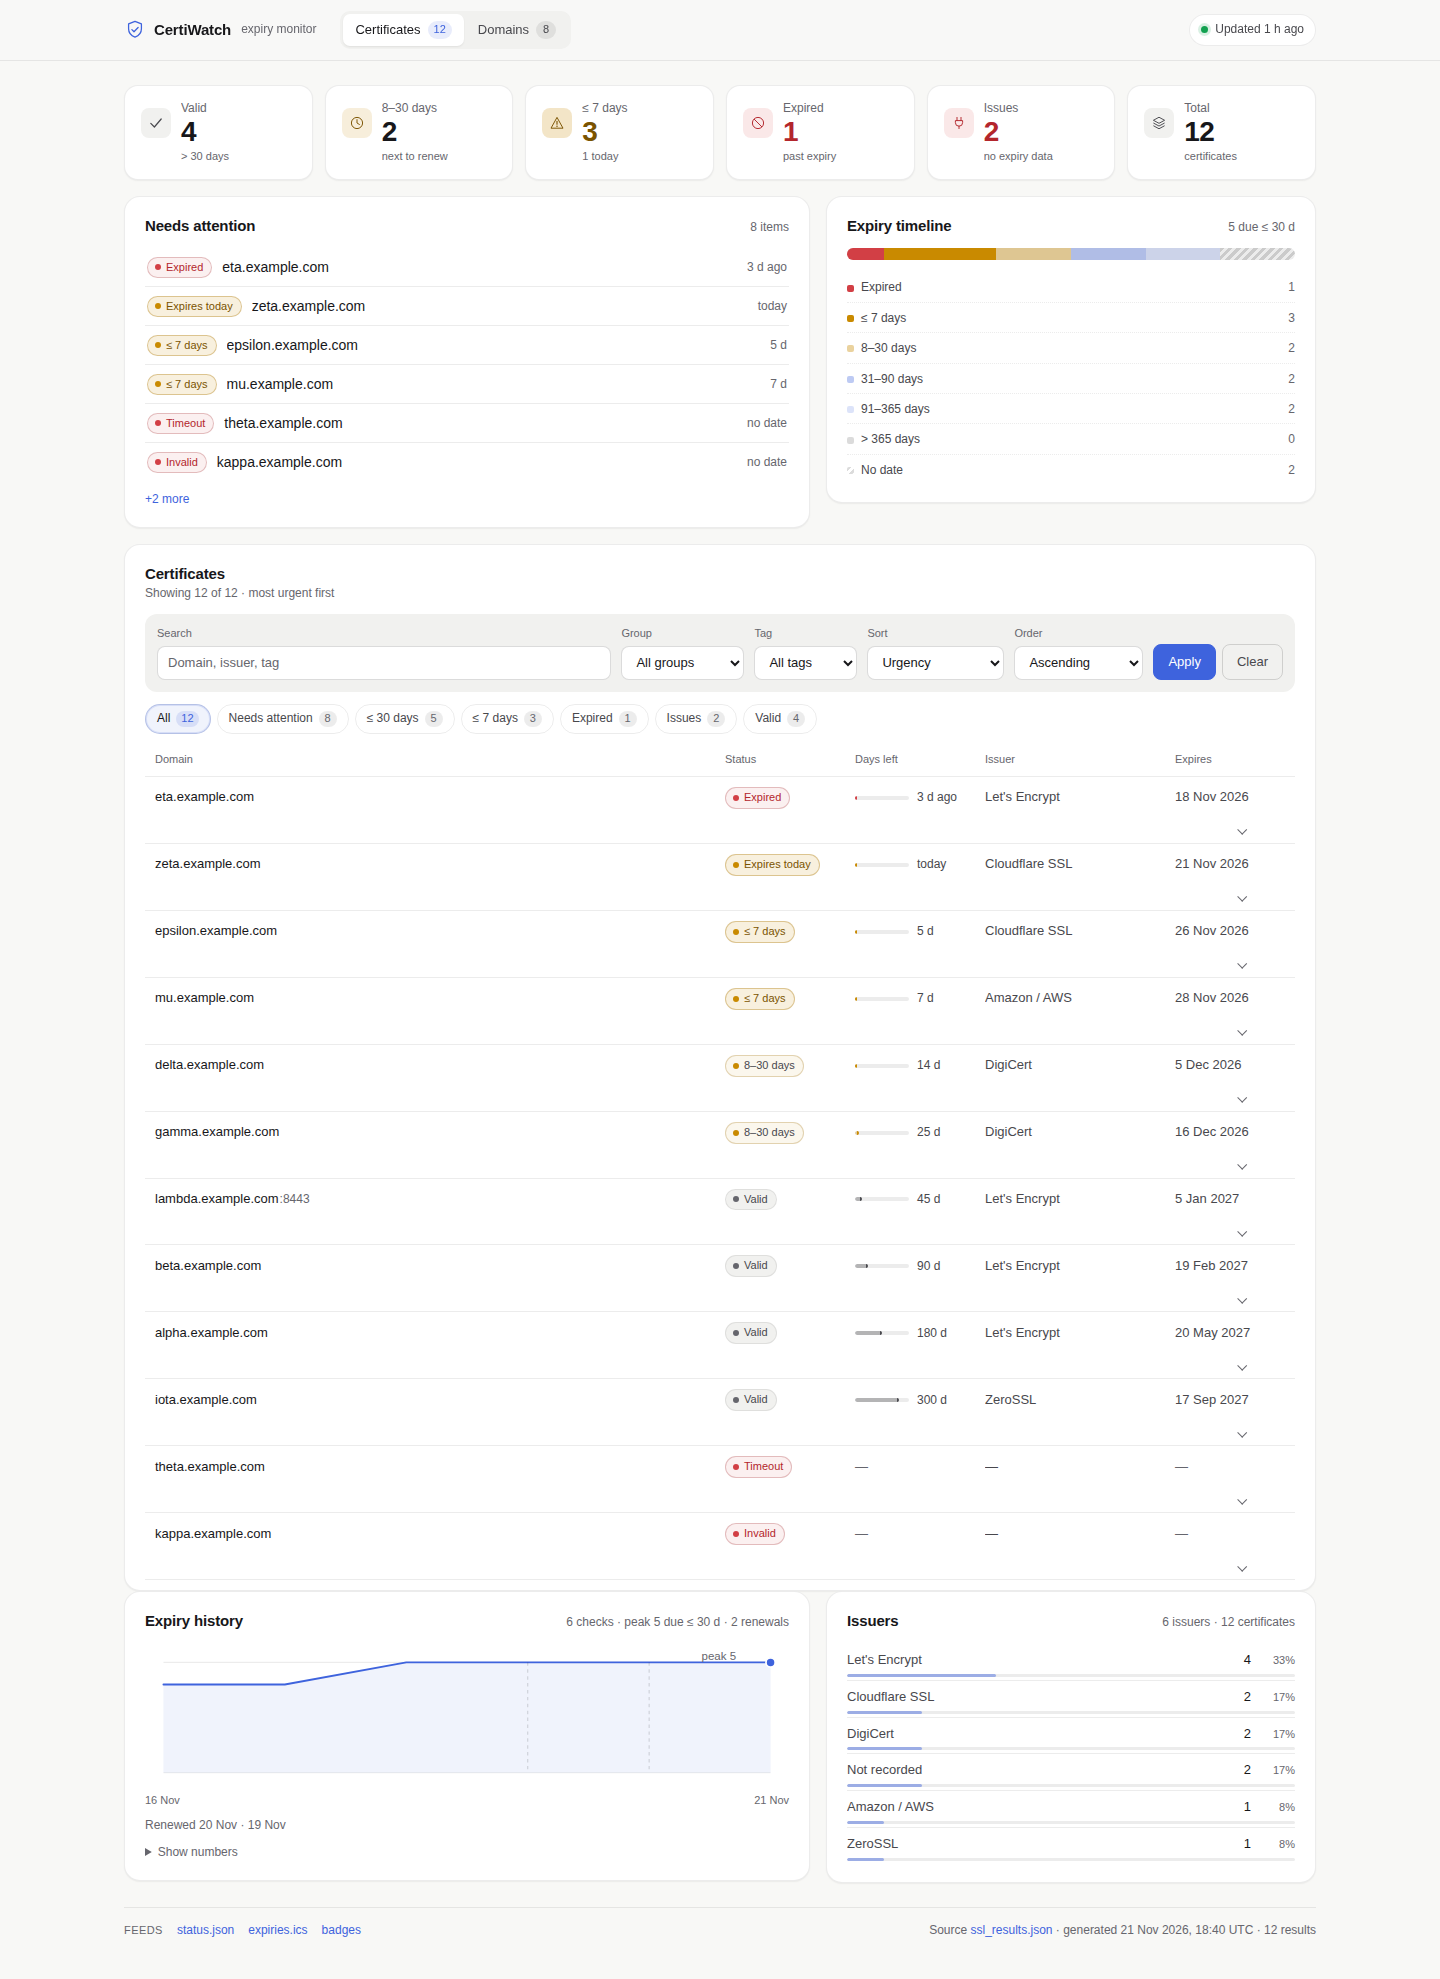
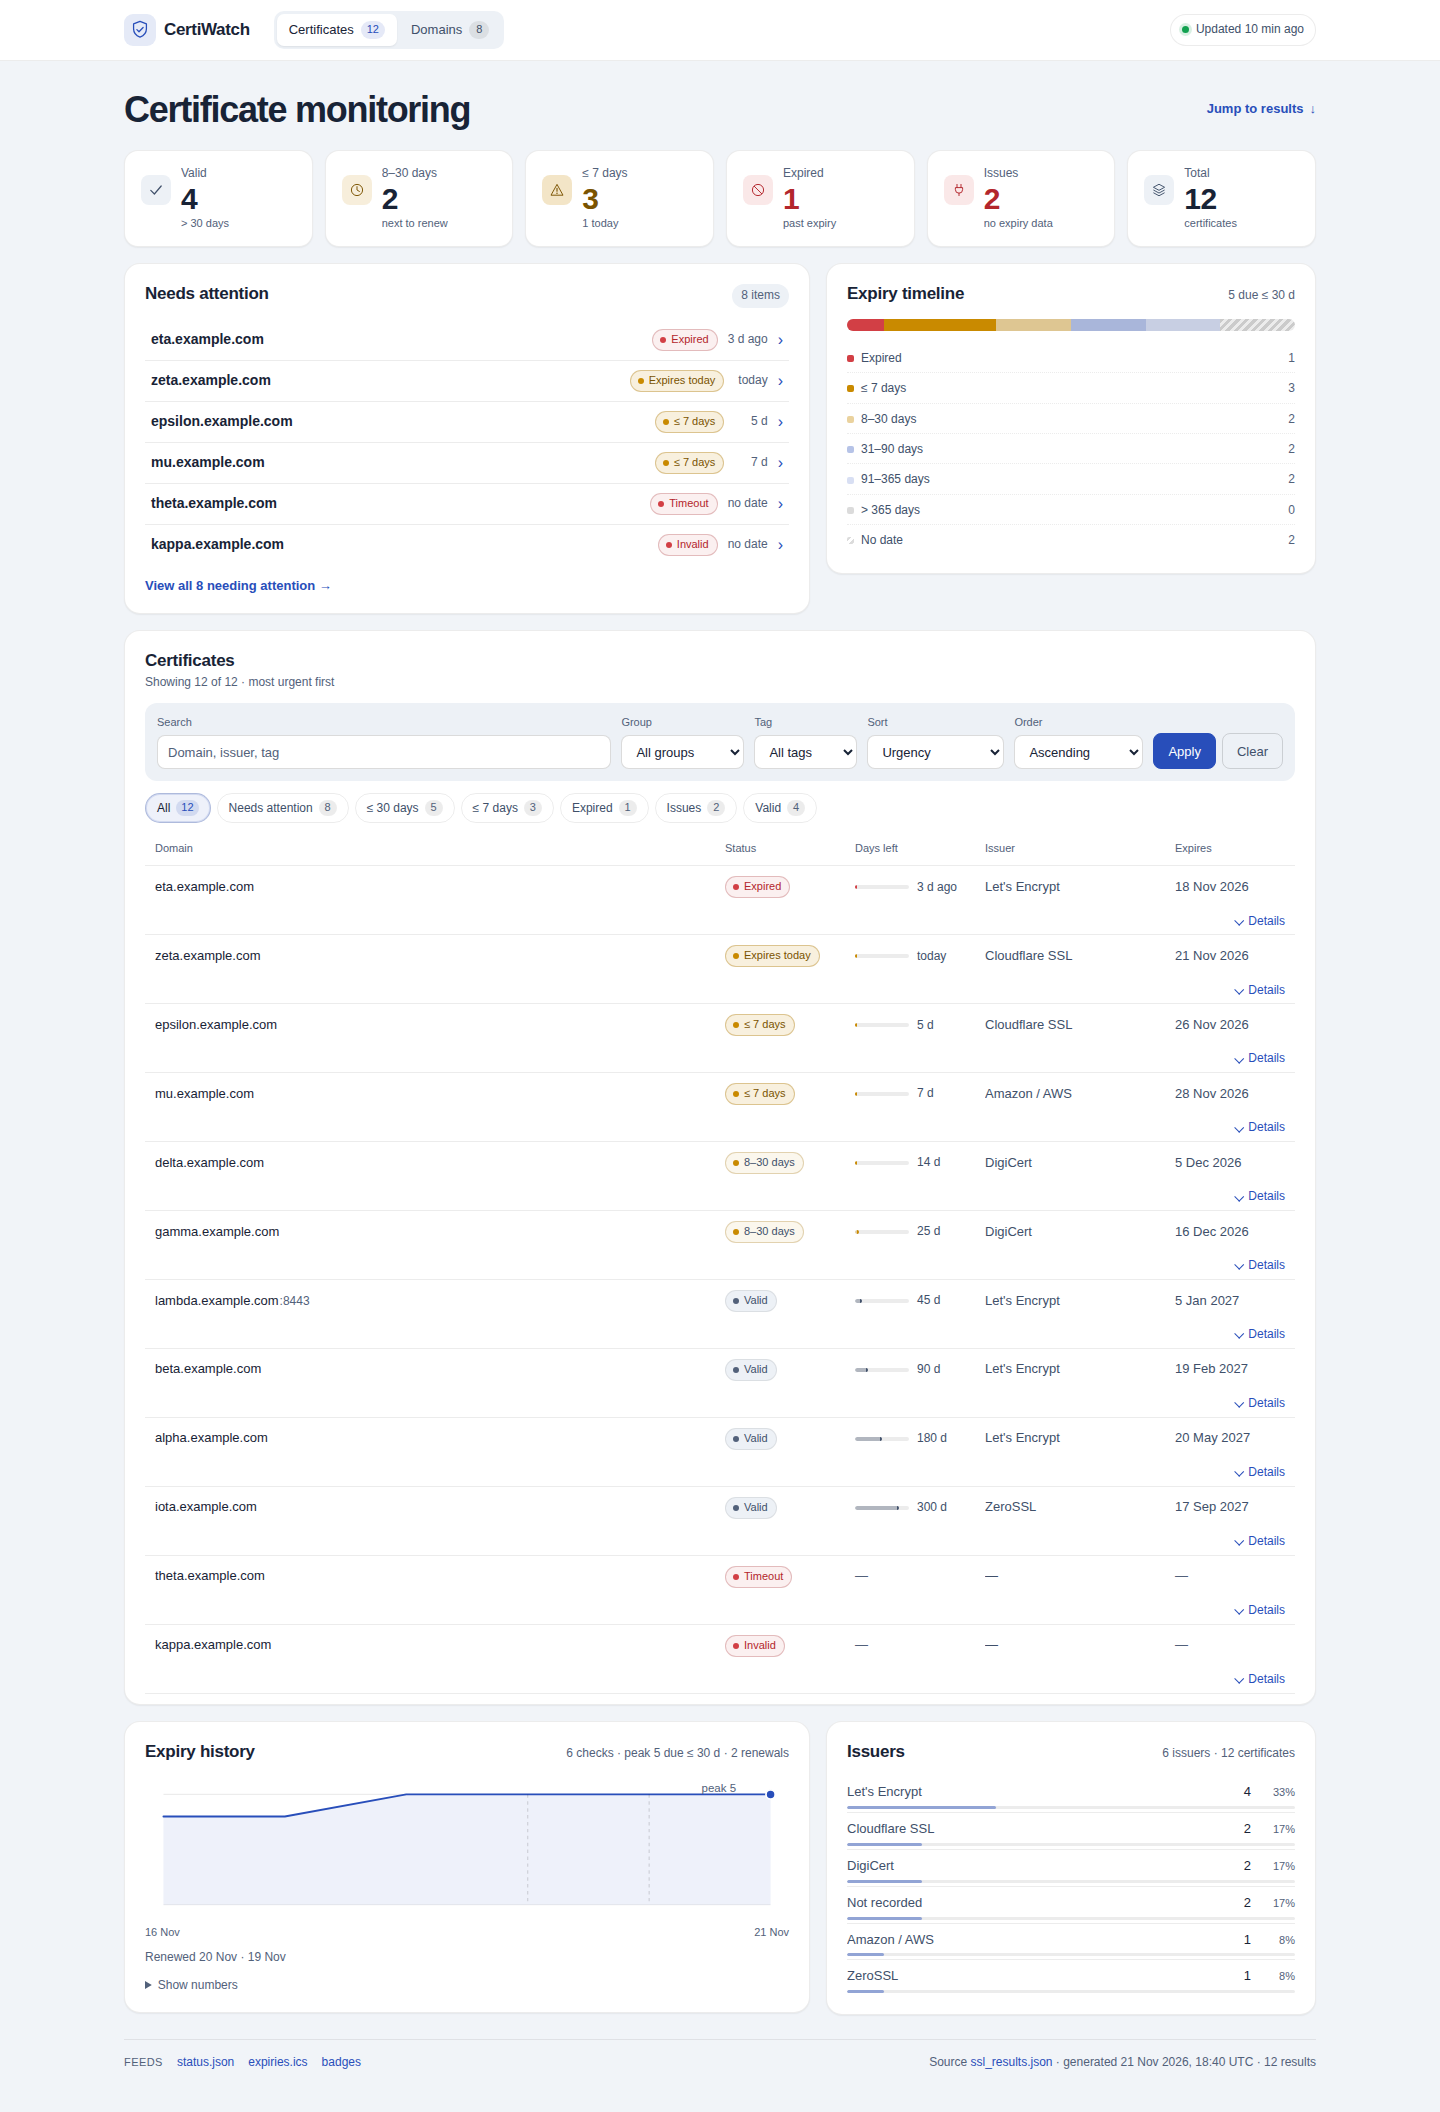
Address dashboard accessibility and mobile review

diff --git a/src/dashboard.css b/src/dashboard.css
@@ -6,7 +6,6 @@
   --page: #f1f4f8;
   --card: #ffffff;
   --soft: #edf1f6;
-  --side: #f3f3f1;
   --ink: #182336;
   --ink-2: #40506a;
   --muted: #52617a;
@@ -20,7 +19,6 @@
   --warn-ink: #7a5300;
   --bad: #d23f45;
   --bad-ink: #b3262c;
-  --tip: #1f2530;
   --shadow-card: 0 1px 2px rgb(0 0 0 / 0.04), 0 1px 1px rgb(0 0 0 / 0.02);
   --shadow-pop: 0 12px 32px -8px rgb(0 0 0 / 0.18), 0 0 0 1px rgb(0 0 0 / 0.06);
   --radius: 16px;
@@ -33,7 +31,6 @@
     --page: #0e1623;
     --card: #172233;
     --soft: #202e43;
-    --side: #101013;
     --ink: #edf2fc;
     --ink-2: #c1cde0;
     --muted: #a6b5cb;
@@ -47,7 +44,6 @@
     --warn-ink: #f6b100;
     --bad: #ff6b70;
     --bad-ink: #ff8a8e;
-    --tip: #2a3548;
     --shadow-card: 0 1px 2px rgb(0 0 0 / 0.4);
     --shadow-pop: 0 12px 32px -8px rgb(0 0 0 / 0.6), 0 0 0 1px rgb(255 255 255 / 0.08);
   }
@@ -57,7 +53,6 @@
   --page: #0e1623;
   --card: #172233;
   --soft: #202e43;
-  --side: #101013;
   --ink: #edf2fc;
   --ink-2: #c1cde0;
   --muted: #a6b5cb;
@@ -71,7 +66,6 @@
   --warn-ink: #f6b100;
   --bad: #ff6b70;
   --bad-ink: #ff8a8e;
-  --tip: #2a3548;
   --shadow-card: 0 1px 2px rgb(0 0 0 / 0.4);
   --shadow-pop: 0 12px 32px -8px rgb(0 0 0 / 0.6), 0 0 0 1px rgb(255 255 255 / 0.08);
 }
@@ -117,6 +111,10 @@ a:hover {
   outline: 2px solid var(--accent);
   outline-offset: 2px;
   border-radius: 4px;
+}
+
+#main:focus {
+  outline: none;
 }
 
 .sr-only {
@@ -324,9 +322,13 @@ a:hover {
   letter-spacing: -0.035em;
 }
 
-.page-head .button {
-  gap: 8px;
-  background: var(--card);
+.inventory-link {
+  display: inline-flex;
+  align-items: center;
+  gap: 6px;
+  min-height: 36px;
+  font-size: 13px;
+  font-weight: 600;
 }
 
 #main,
@@ -538,13 +540,13 @@ a:hover {
 .attn-domain {
   flex: 1;
   min-width: 0;
-  overflow: hidden;
-  text-overflow: ellipsis;
-  white-space: nowrap;
+  overflow-wrap: anywhere;
   font-weight: 600;
 }
 
 .attn-days {
+  min-width: 5ch;
+  text-align: right;
   color: var(--muted);
   font-size: 12px;
   font-variant-numeric: tabular-nums;
@@ -1518,7 +1520,26 @@ code {
   }
 
   .main {
-    padding-top: 16px;
+    padding-top: 14px;
+  }
+
+  .page-head {
+    gap: 0 12px;
+    margin-bottom: 12px;
+  }
+
+  .page-head h1 {
+    font-size: 21px;
+  }
+
+  .tab,
+  .pill {
+    min-height: 36px;
+  }
+
+  .history-data > summary {
+    min-height: 40px;
+    line-height: 40px;
   }
 
   .kpi {

diff --git a/src/dashboard.rs b/src/dashboard.rs
@@ -1579,7 +1579,7 @@ impl Page {
         let _ = write!(
             out,
             "<div class=\"page-head\"><h1>{}</h1>\
-             <a class=\"button button-ghost\" href=\"#inventory\">Browse results <span aria-hidden=\"true\">↓</span></a></div>",
+             <a class=\"inventory-link\" href=\"#inventory\">Jump to results <span aria-hidden=\"true\">↓</span></a></div>",
             if self.q.tab == DashboardTab::Ssl {
                 "Certificate monitoring"
             } else {

diff --git a/docs/rust-dashboard-design.md b/docs/rust-dashboard-design.md
@@ -61,11 +61,11 @@ directly below, above the table.
 | Context for every number | Each tile names its band; the list says "Showing X of Y · most urgent first"; history names the peak and the previous checks. |
 | Numbers | Tabular figures in tables, counts and axes; `—` for no data; dates as "18 Nov 2026"; percentages under 1% read `<1%`. |
 | Say it once | Counts are computed once per block and reused; the KPI partition does not repeat the total inside every tile; the history table repeats chart values only as the accessible copy. |
-| Density scale | 14 px base, 13 px tables/sub-lines, 12 px labels, 28 px KPI values, 16 px icons, 1.2 px strokes, medium weights. |
+| Density scale | 14 px base, 13 px tables/sub-lines, 12 px labels, 30 px KPI values, 16 px icons, 1.2 px strokes, medium weights. |
 | Tokens before components | `src/dashboard.css` defines every colour once for light and dark (system scheme plus `data-theme`), with tints as token + alpha. |
 | Layout grows with the screen | 2/3/6 KPI columns; main and lower panels go 1 → 7/5 at 900 px; content caps at 1240 px and reaches 1640 px from 1800 px. |
 | No holes | Cards align at the top rather than stretching a short card; the timeline and attention cards hold comparable content. |
-| Phones | 375 px: no page scroll, one column, rows fold into labelled blocks, the table header becomes visually hidden, filters stack, the sticky header is disabled, controls remain 30–36 px tall. |
+| Phones | 375 px: no horizontal page scroll, one column, rows fold into labelled blocks, the table header becomes visually hidden, search spans two filter columns, the sticky header is disabled, form inputs and detail toggles are at least 40 px tall. |
 | States | Setup (both files absent), per-check unavailable, empty result, no search matches, stale (>36 h), future timestamp, row checks older than 36 h, skipped rows, history missing/invalid/empty. |
 | QA | Known totals from an independent script, words audit, salience test, screenshots at 375 / 768 / 1024 / 1440 / 1800 / 3440, light and dark, keyboard and contrast checks. |
 
